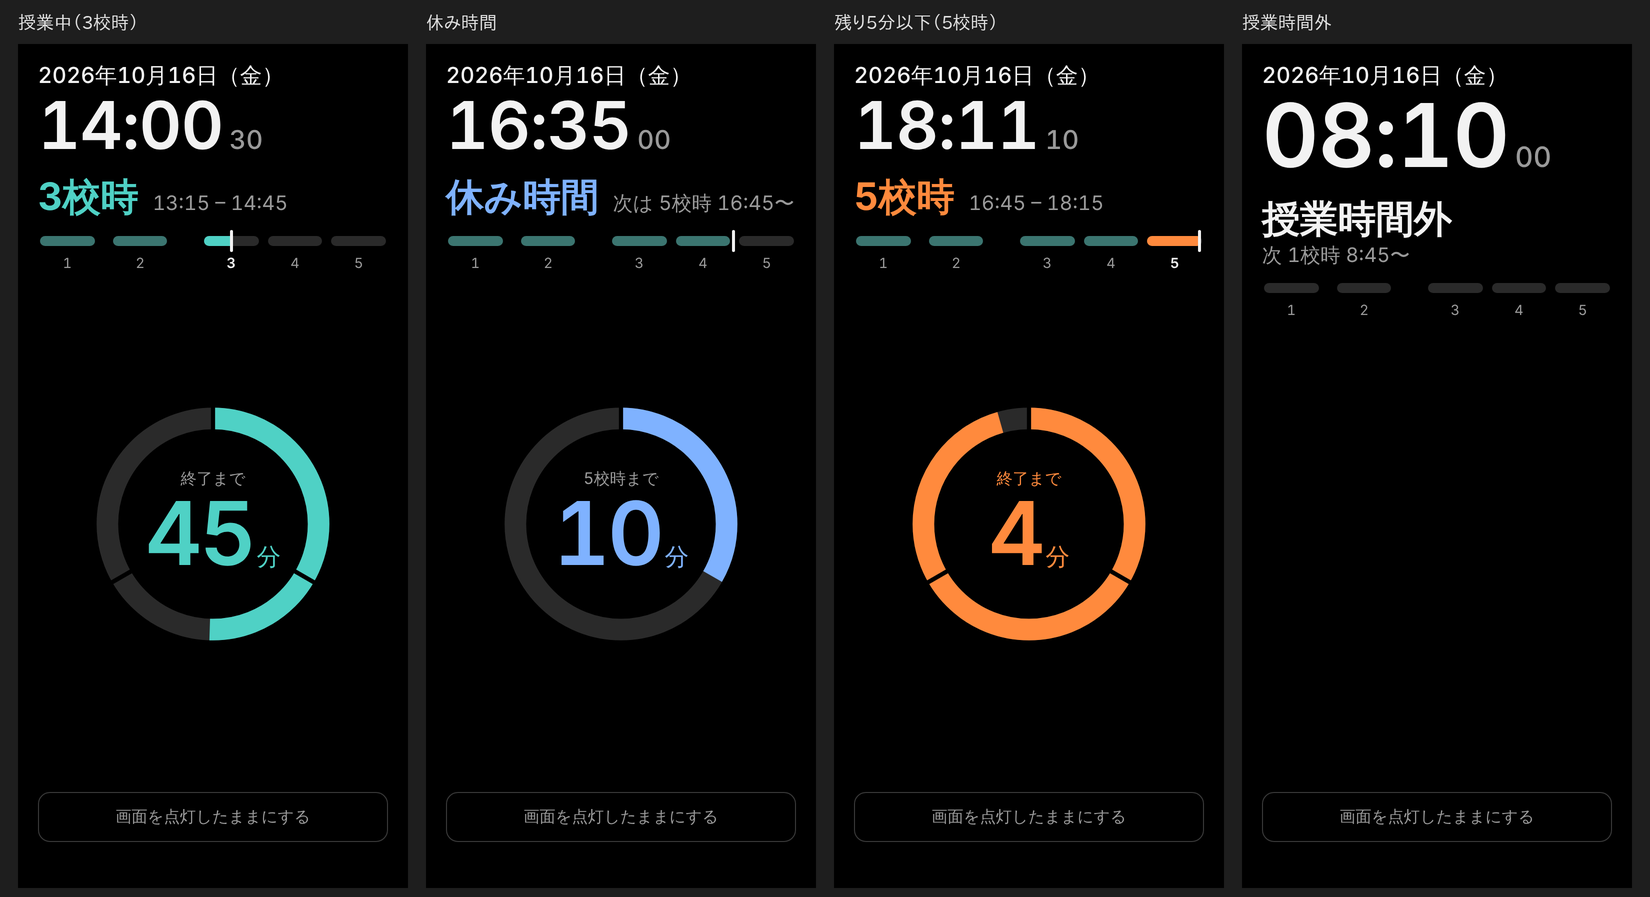
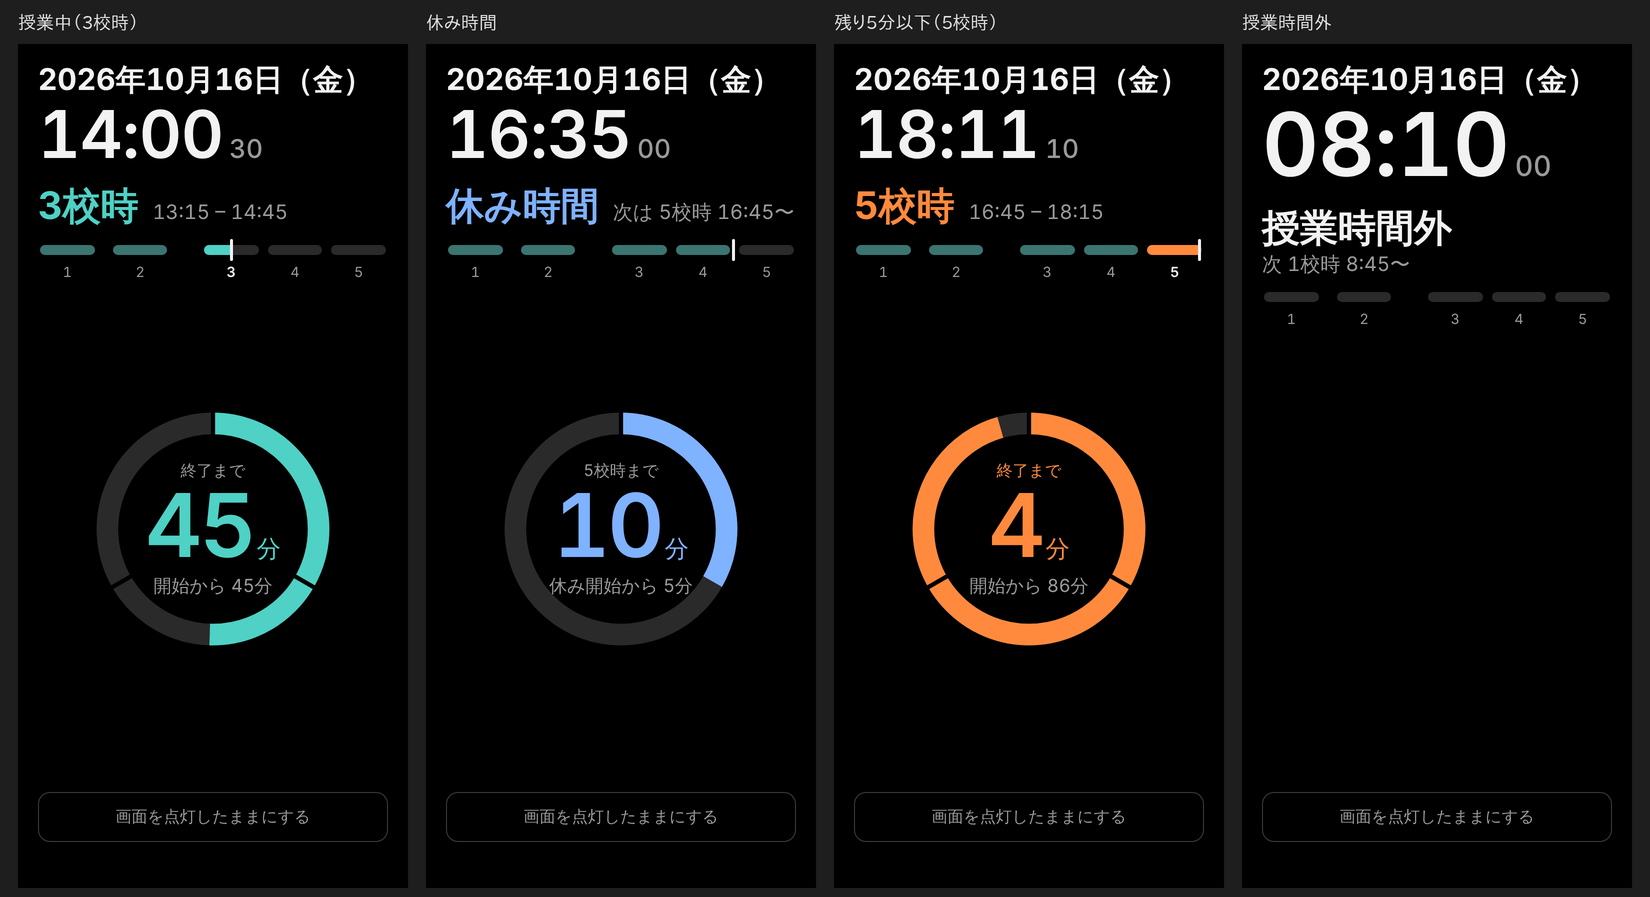
Mobile: larger date, elapsed minutes inside the ring
Adds elapsedMin to the schedule status (whole minutes, rounded down) with tests.

Claude-Session: https://claude.ai/code/session_01WwemvzczgCFbF1NUAzGsBd

diff --git a/css/style.css b/css/style.css
@@ -41,7 +41,7 @@
 /* ---------- sizes: mobile (portrait phone) ---------- */
 :root {
   --m-pad: 20;
-  --m-date-size: 22;      /* 2026年10月16日（金） */
+  --m-date-size: 30;      /* 2026年10月16日（金） */
   --m-clock-size: 66;     /* HH:mm */
   --m-sec-size: 26;       /* :ss (small) */
   --m-off-clock-size: 88; /* HH:mm outside class hours */
@@ -53,6 +53,7 @@
   --m-label-size: 16;     /* "終了まで" inside the ring */
   --m-num-size: 88;       /* remaining minutes inside the ring */
   --m-unit-size: 24;      /* "分" */
+  --m-elapsed-size: 18;   /* "開始から 45分" inside the ring */
   --m-btn-size: 16;
 }
 
@@ -145,7 +146,7 @@ body[data-phase="off"] .c-row { grid-template-columns: calc(var(--u) * 12) 1fr c
 
 /* 1. date + digital clock with small seconds */
 .m-top { line-height: 1.1; }
-.m-date { font-size: calc(var(--u) * var(--m-date-size)); font-weight: 500; color: var(--fg); }
+.m-date { font-size: calc(var(--u) * var(--m-date-size)); font-weight: 700; color: var(--fg); white-space: nowrap; }
 .m-time { white-space: nowrap; margin-top: calc(var(--u) * 4); line-height: 1; }
 .m-clock { font-size: calc(var(--u) * var(--m-clock-size)); font-weight: 600; letter-spacing: -0.01em; }
 .m-sec { font-size: calc(var(--u) * var(--m-sec-size)); font-weight: 500; color: var(--dim); margin-left: calc(var(--u) * 6); }
@@ -173,6 +174,7 @@ body[data-phase="off"] .c-row { grid-template-columns: calc(var(--u) * 12) 1fr c
 .m-remain { white-space: nowrap; margin-top: calc(var(--u) * 4); }
 .m-num { font-size: calc(var(--u) * var(--m-num-size)); font-weight: 600; letter-spacing: -0.03em; line-height: 1; }
 .m-unit { font-size: calc(var(--u) * var(--m-unit-size)); font-weight: 500; margin-left: calc(var(--u) * 3); }
+.m-elapsed { font-size: calc(var(--u) * var(--m-elapsed-size)); color: var(--dim); margin-top: calc(var(--u) * 8); white-space: nowrap; }
 body[data-state="warn"] .m-remain-label { color: var(--c-warn); }
 
 /* outside class hours: no ring; the clock gets bigger */

diff --git a/tests/schedule.test.js b/tests/schedule.test.js
@@ -76,6 +76,26 @@ test("remaining minutes are rounded up", () => {
   assert.equal(status(FRI, "10:14:59.999").remainingMin, 1);
 });
 
+test("elapsed minutes are rounded down and pair with the remaining minutes", () => {
+  assert.equal(status(FRI, "8:45:00").elapsedMin, 0);
+  assert.equal(status(FRI, "8:45:59.999").elapsedMin, 0);
+  assert.equal(status(FRI, "8:46:00").elapsedMin, 1);
+  assert.equal(status(FRI, "9:30:00").elapsedMin, 45);
+  assert.equal(status(FRI, "10:14:59.999").elapsedMin, 89);
+  for (const time of ["8:45:00", "9:00:00", "9:58:00", "10:14:00"]) {
+    const s = status(FRI, time); // on a whole minute: elapsed + remaining = 90
+    assert.equal(s.elapsedMin + s.remainingMin, 90, time);
+  }
+  // within a minute the two differ by at most one
+  const mid = status(FRI, "9:58:20");
+  assert.deepEqual([mid.elapsedMin, mid.remainingMin], [73, 17]);
+  // breaks count from the end of the previous class; off-hours have none
+  assert.equal(status(FRI, "10:20:00").elapsedMin, 5);
+  assert.equal(status(FRI, "12:15:00").elapsedMin, 0);
+  assert.equal(status(FRI, "07:00:00").elapsedMin, null);
+  assert.equal(status("2026-10-17", "10:00:00").elapsedMin, null);
+});
+
 test("warning turns on at 5 minutes remaining or less, only during class", () => {
   assert.equal(status(FRI, "10:09:59").remainingMin, 6);
   assert.equal(status(FRI, "10:09:59").warn, false);

diff --git a/js/app.js b/js/app.js
@@ -44,7 +44,7 @@
       clock: st.clock,
       sec: String(t.s).padStart(2, "0"), // shown small, mobile layout only
       date: t.y + "年" + t.mo + "月" + t.d + "日（" + WEEKDAYS[t.wd] + "）",
-      title: "", sub: "", range: "", remain: "", remainLabel: "",
+      title: "", sub: "", range: "", remain: "", remainLabel: "", elapsed: "",
     };
 
     if (st.phase === "class") {
@@ -53,12 +53,14 @@
       v.range = minutesText(st.startMin) + " – " + minutesText(st.endMin);
       v.remainLabel = "終了まで";
       v.remain = String(st.remainingMin);
+      v.elapsed = "開始から " + st.elapsedMin + "分";
     } else if (st.phase === "break") {
       v.title = "休み時間";
       v.sub = periodName(st.next) + " " + minutesText(st.endMin) + "〜";
       v.range = "次は " + periodName(st.next) + " " + minutesText(st.endMin) + "〜";
       v.remainLabel = periodName(st.next) + "まで";
       v.remain = String(st.remainingMin);
+      v.elapsed = "休み開始から " + st.elapsedMin + "分";
     } else {
       v.title = st.offReason === "weekend" || st.offReason === "holiday" ? "休日" : "授業時間外";
       if (st.offReason === "before") v.sub = "次 " + periodName(st.next) + " " + minutesText(st.next.start) + "〜";

diff --git a/js/schedule.js b/js/schedule.js
@@ -134,7 +134,8 @@
    *   'off'   - weekend/holiday, before the first period or after the last one
    *
    * remainingMin is rounded UP to whole minutes, so it never reads 0 while a
-   * segment is still running (10:14:30 -> 1).
+   * segment is still running (10:14:30 -> 1). elapsedMin is rounded DOWN, so the two
+   * add up to the segment length except within the current minute (9:58:20 -> 73 + 17).
    */
   function getStatus(epochMs) {
     const t = jstParts(epochMs);
@@ -155,6 +156,7 @@
       startMin: null,  // start of the segment being counted (class or break)
       endMin: null,    // end of that segment
       remainingMin: null,
+      elapsedMin: null, // whole minutes since the segment started (rounded down)
       progress: null,  // 0..1 elapsed within the segment
       warn: false,
     };
@@ -182,6 +184,7 @@
     status.startMin = startMin;
     status.endMin = endMin;
     status.remainingMin = Math.ceil((endMin * MS_PER_MIN - nowMs) / MS_PER_MIN);
+    status.elapsedMin = Math.floor((nowMs - startMin * MS_PER_MIN) / MS_PER_MIN);
     status.progress = (nowMs - startMin * MS_PER_MIN) / ((endMin - startMin) * MS_PER_MIN);
     status.warn = status.phase === "class" && status.remainingMin <= WARN_MINUTES;
     return status;

diff --git a/index.html b/index.html
@@ -64,6 +64,7 @@
         <div class="m-ring-text">
           <div class="m-remain-label" data-bind="remainLabel">&nbsp;</div>
           <div class="m-remain"><span class="m-num" data-bind="remain">--</span><span class="m-unit">分</span></div>
+          <div class="m-elapsed" data-bind="elapsed">&nbsp;</div>
         </div>
       </div>
     </section>

diff --git a/README.md b/README.md
@@ -83,10 +83,10 @@ python3 -m http.server 8000
 
 画面は上から次の順に並びます。
 
-1. **年月日・曜日・現在時刻**（デジタル時計。秒は小さく表示）
+1. **年月日・曜日・現在時刻**（日付は太字で大きく。時計はデジタルで、秒は小さく表示）
 2. **校時と予定時間**（例: `3校時  13:15 – 14:45`。休み時間は「次は 5校時 16:45〜」）
 3. **1 日の進み具合**のバー: 1〜5 校時を時間に比例して並べ、いまの校時を塗りつぶし、現在位置を白い線で示します。終わった校時は薄く塗られます。6・7 校時はバーには出しません（コマ数は `js/app.js` の `DAY_BAR_LAST_PERIOD`）。
-4. **進捗リング**: 経過割合を 12 時の位置から時計回りに塗り、中央に残り時間を表示します。**30 分ごとに区切り**が入るので、90 分の授業は 3 等分、60 分の昼休みは 2 等分で見えます。
+4. **進捗リング**: 経過割合を 12 時の位置から時計回りに塗り、中央に残り時間と、**開始からの経過時間**（例: 開始から 45分。休み時間は「休み開始から ○分」）を表示します。**30 分ごとに区切り**が入るので、90 分の授業は 3 等分、60 分の昼休みは 2 等分で見えます。
 5. 画面点灯ボタン
 
 授業時間外は、リングを出さずに現在時刻を大きく表示します（1 日のバーは残ります）。
